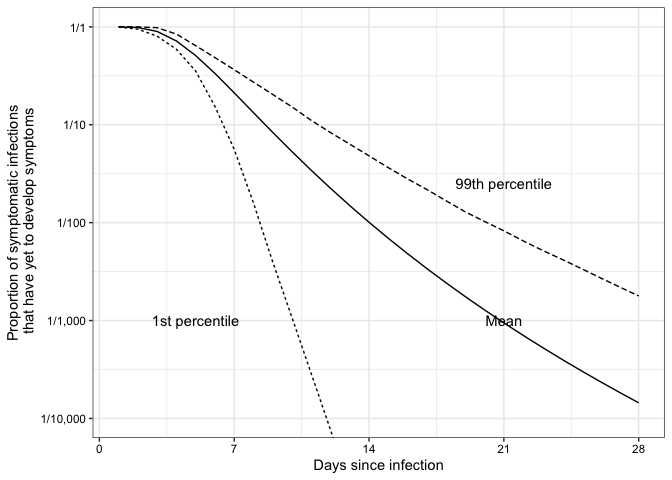
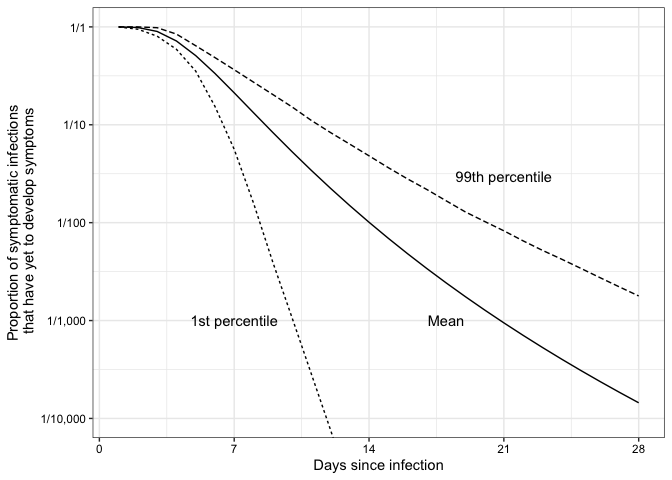
fixed placement of labels in active-monitoring figure

diff --git a/README.md b/README.md
@@ -3,7 +3,7 @@
 Real-time estimation of the novel coronavirus incubation time
 =============================================================
 
-Updated: Mon Mar 2 11:07:02 2020
+Updated: Mon Mar 2 11:29:41 2020
 
 [Read the medRxiv
 preprint](https://www.medrxiv.org/content/10.1101/2020.02.02.20020016v1)
